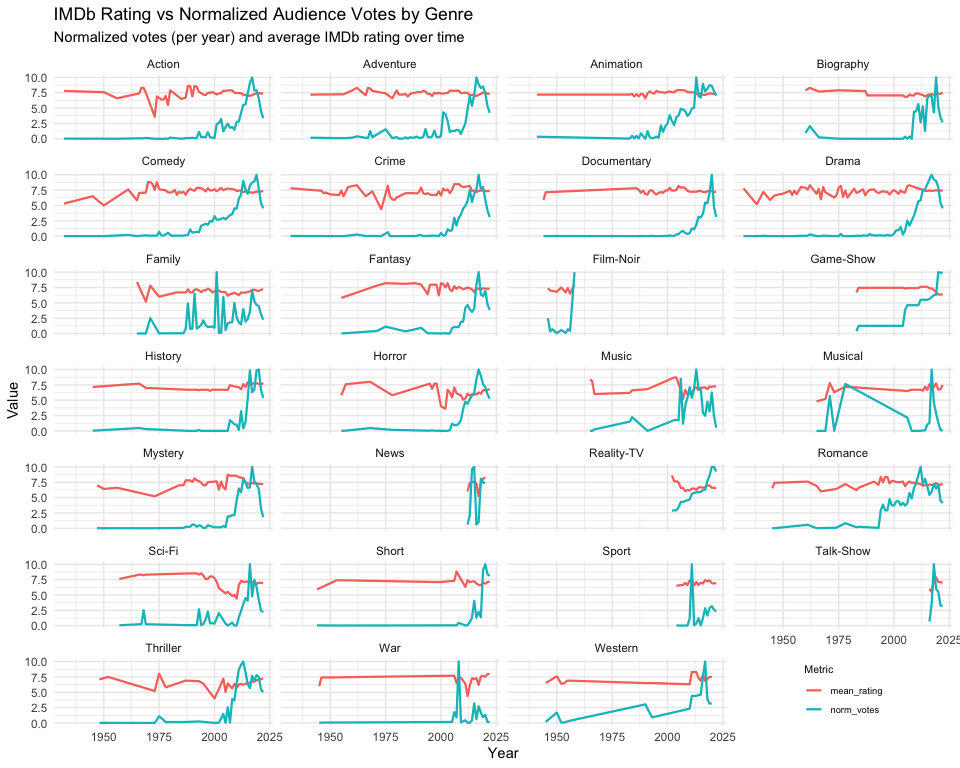
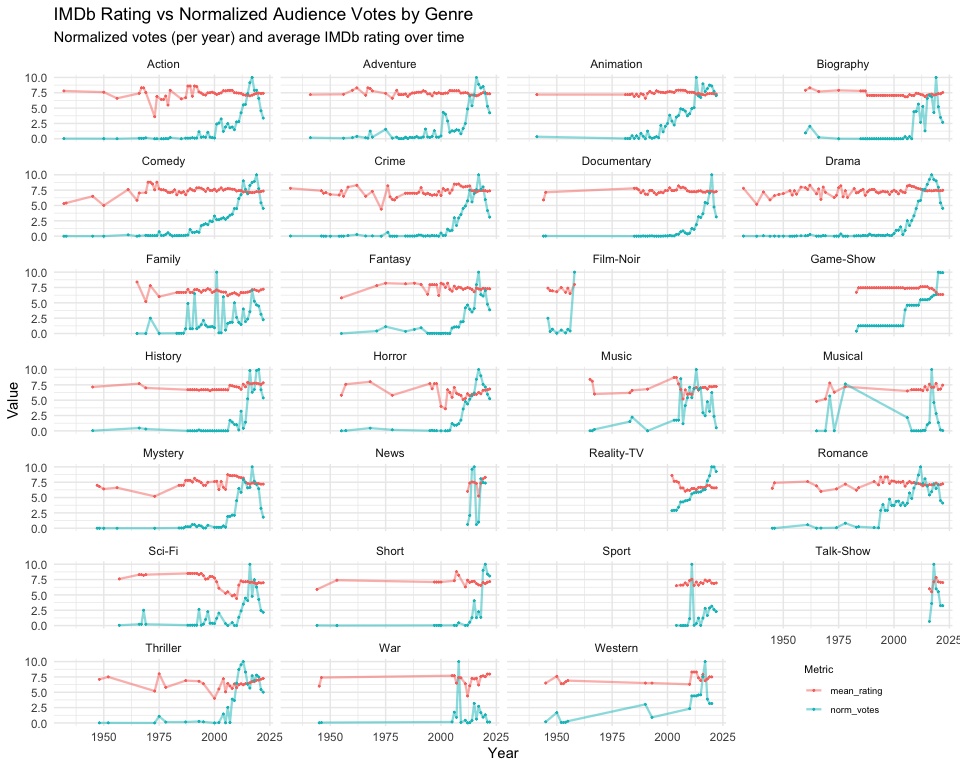
Added more explanations about the plots.

diff --git a/Projects/Niclas38/hd25viet.md b/Projects/Niclas38/hd25viet.md
@@ -132,7 +132,8 @@ genre.
 
     # Plot with facets and no legend
     ggplot(genre_long, aes(x = YEAR, y = value, color = metric)) +
-      geom_line(linewidth = 0.8) +
+      geom_line(alpha=0.5, linewidth = 0.8) +
+      geom_point(size=0.3)+
       facet_wrap(~ GENRE, scales = "fixed", ncol = 4) + 
       labs(
         title = "IMDb Rating vs Normalized Audience Votes by Genre",
@@ -158,6 +159,8 @@ genre.
     ## generated.
 
 ![](hd25viet_files/figure-markdown_strict/Plot%20of%20votes%20and%20rating-1.png)
+I emphasize that this plot using facetting gives much more insights
+about trends then the suggested plot containing all genres.
 
     actor_stats <- data_cleaned %>%
       filter(!is.na(RATING)) %>%
